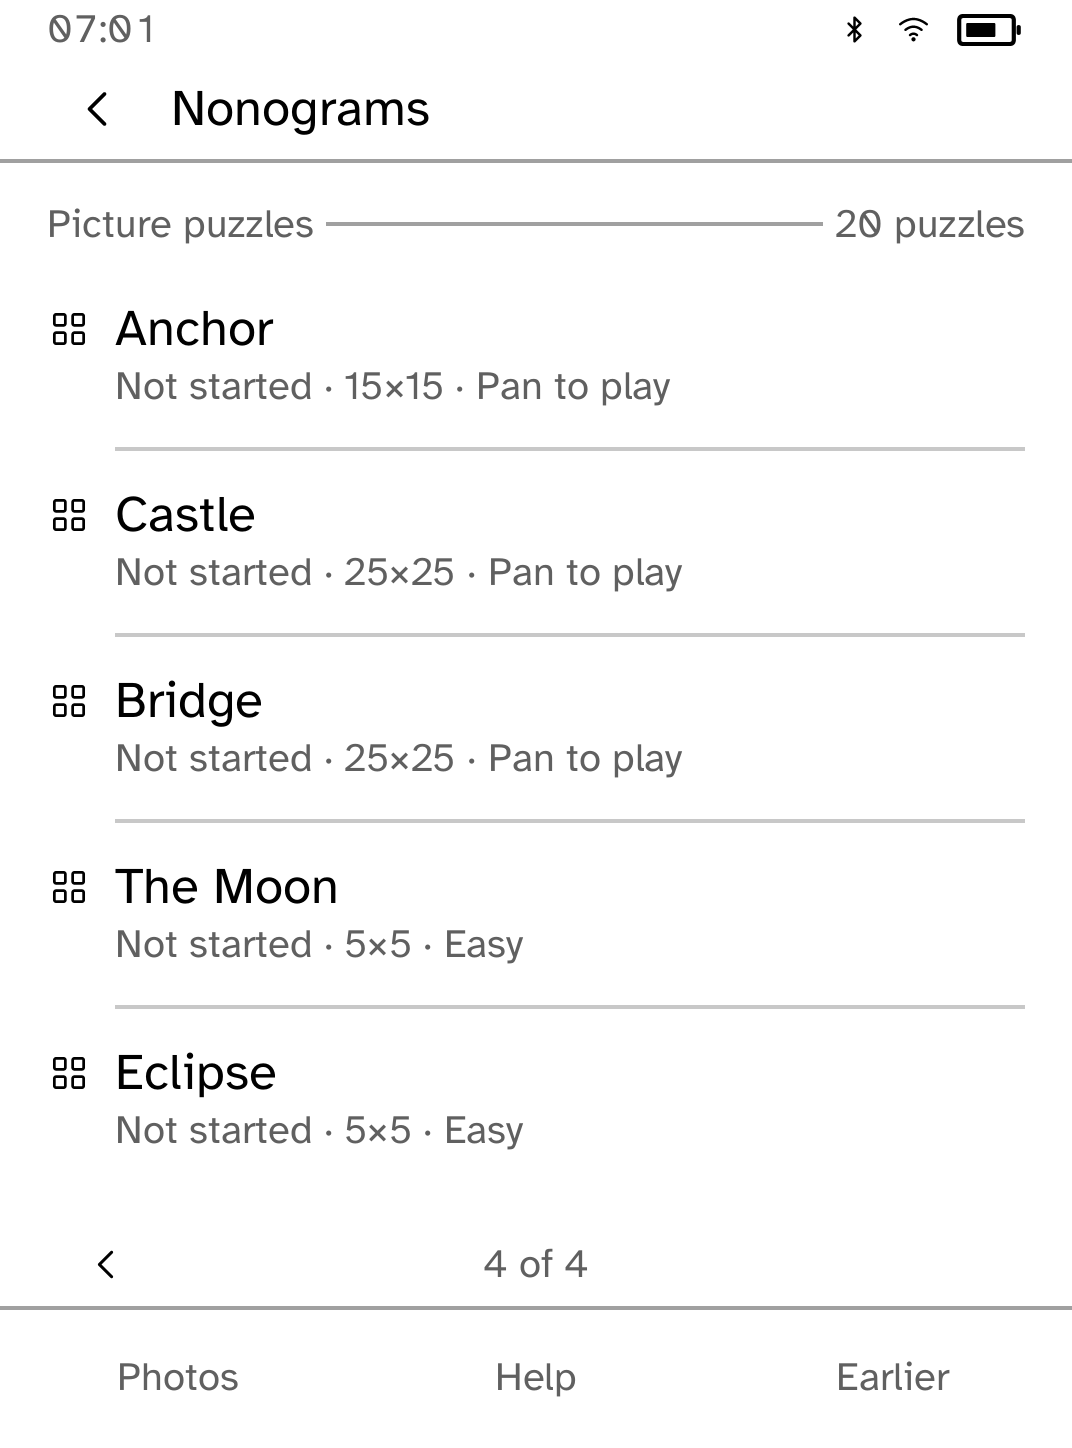
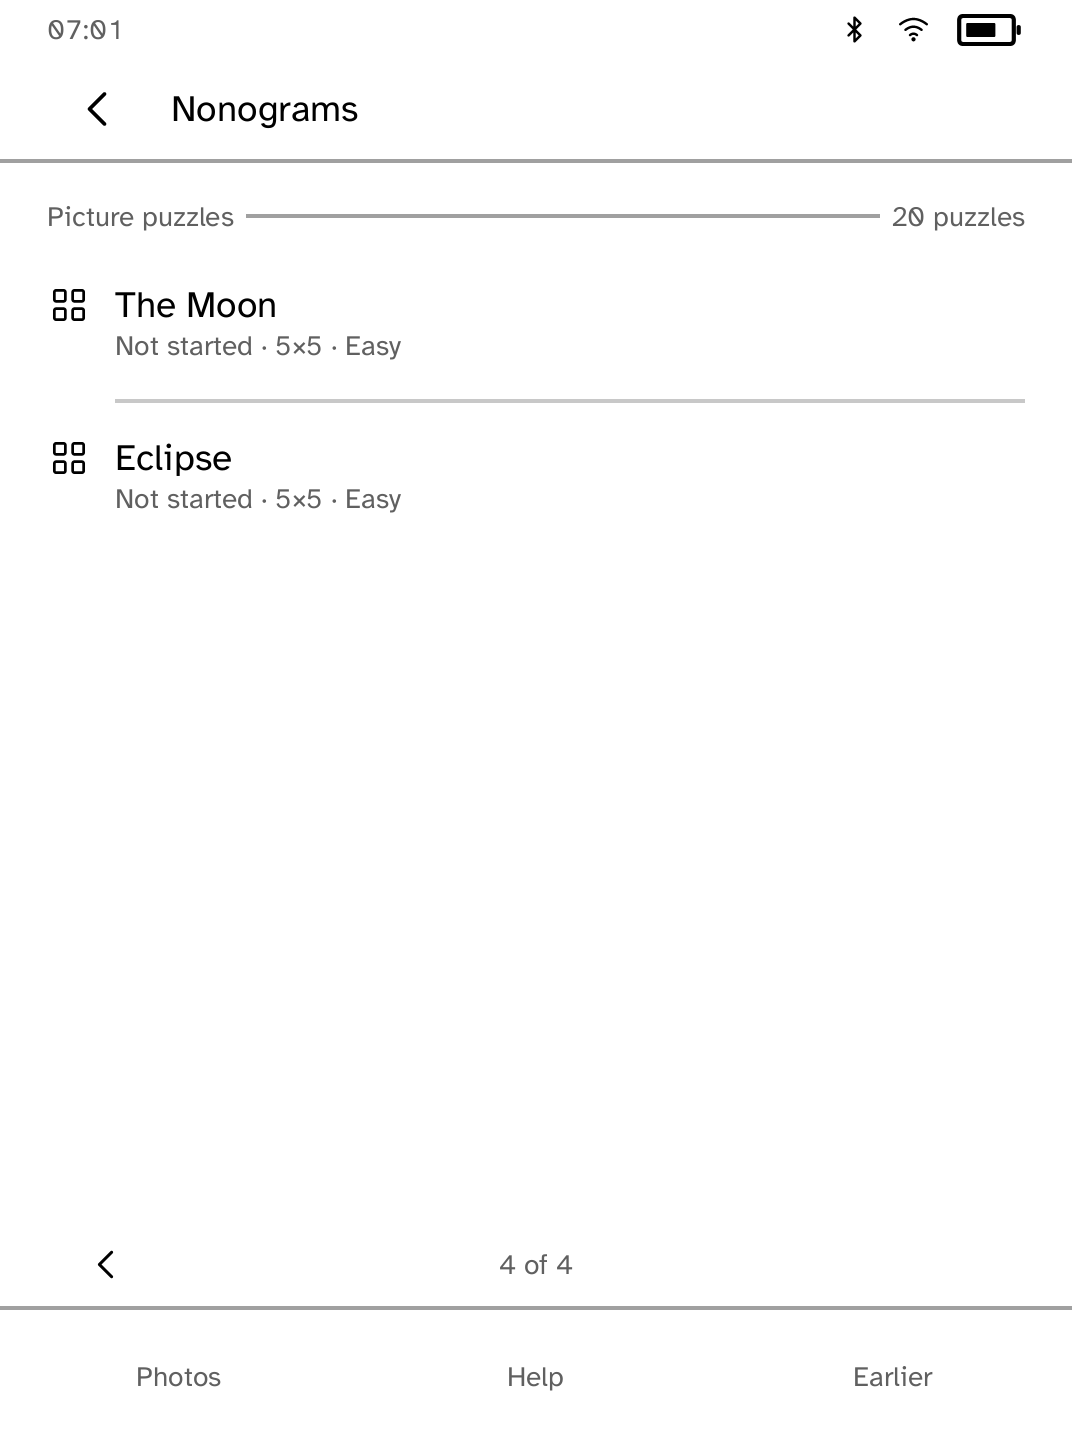
docs(nonograms): refresh the gallery with current-UI captures
The previous screenshots predated the play-header cleanup and showed
retired copy. Four fresh captures from the scripted simulator run:
marking a run, a zoomed 25x25 board, a finished picture puzzle, and
the imported-puzzles shelf. The site image moves to the run capture.

diff --git a/apps/nonograms/screenshots/README.md b/apps/nonograms/screenshots/README.md
@@ -1,14 +1,12 @@
 # Nonograms screenshots
 
-Actual SDK output in the Clara BW simulator at extra-large interface size. These are ideal grayscale frames, not hardware captures.
+Actual SDK output in the Clara BW simulator. These are ideal grayscale frames, not hardware captures.
 
 | Image | Evidence |
 | --- | --- |
-| completed-house.png | [Completed House](../../../docs/quality/evidence/nonogram-pictures/16-picture-completed.json) |
-| nonograms-play.png | [Selected square and matching clues](../../../docs/quality/evidence/nonogram-pictures/14-picture-selection.json) |
-| large-grid.png | [Last square of a 25×25 board](../../../docs/quality/evidence/nonograms/09-last-square.json) |
-| recovery.png | [Save retry](../../../docs/quality/evidence/nonograms/06-save-recovery.json) |
-| clue.png | [Complete row clue](../../../docs/quality/evidence/nonograms/03-full-row-clue.json) |
+| play.png | [Whole run marked](../../../docs/quality/evidence/nonograms/05-whole-run.json) |
+| large-board.png | [Zoomed window on a 25×25 board](../../../docs/quality/evidence/nonograms/08-large-board.json) |
+| picture-completed.png | [Completed picture puzzle](../../../docs/quality/evidence/nonograms/16-picture-completed.json) |
 | imported-puzzles.png | [Two pushed photos imported by name](../../../docs/quality/evidence/nonograms/18-imported-puzzles.json) |
 
-Each JSON records source/binary digests, font provenance, scale, display profile and fixture identity. The public app page uses the new House picture’s selected-square capture. Older large-grid, recovery and clue captures document the retained earlier collection. Reproduce with `scripts/quality/check-nonograms-sim.py` after building `kobo-cli` into the same cargo target directory.
+Each JSON records source/binary digests, font provenance, scale, display profile and fixture identity. Reproduce with `scripts/quality/check-nonograms-sim.py` after building `kobo-cli` into the same cargo target directory.

diff --git a/apps/nonograms/README.md b/apps/nonograms/README.md
@@ -41,6 +41,9 @@ kobo nonograms push IMAGE --size N --device READER
 
 Choose the same size in **Photos**, then **Import**. Grid sizes from 5×5 to 25×25 are accepted. To send several at once, the push writes an `imported.txt` list beside the photos, one line per puzzle with the file name, puzzle name and grid size. Each listed photo arrives as a named puzzle. Reimporting an unchanged photo keeps its saved progress, and photos a push no longer names leave the shelf.
 
+![Marking a run on the board](screenshots/play.png)
+![A 25 by 25 board, zoomed](screenshots/large-board.png)
+![A finished picture puzzle](screenshots/picture-completed.png)
 ![Imported photo puzzles listed by name](screenshots/imported-puzzles.png)
 
 The app accepts an image-derived puzzle only when repeated row/column deductions determine its entire answer. Ambiguous or unsupported inputs are refused. The displayed solver rating is **Easy** for one productive pass, **Medium** for two or three and **Hard** for more. This repeatable guide describes solver work, not measured human difficulty. The earlier study pack remains available for existing games. The new collection uses 18 distinct original drawings; every answer is determined by the line solver.
